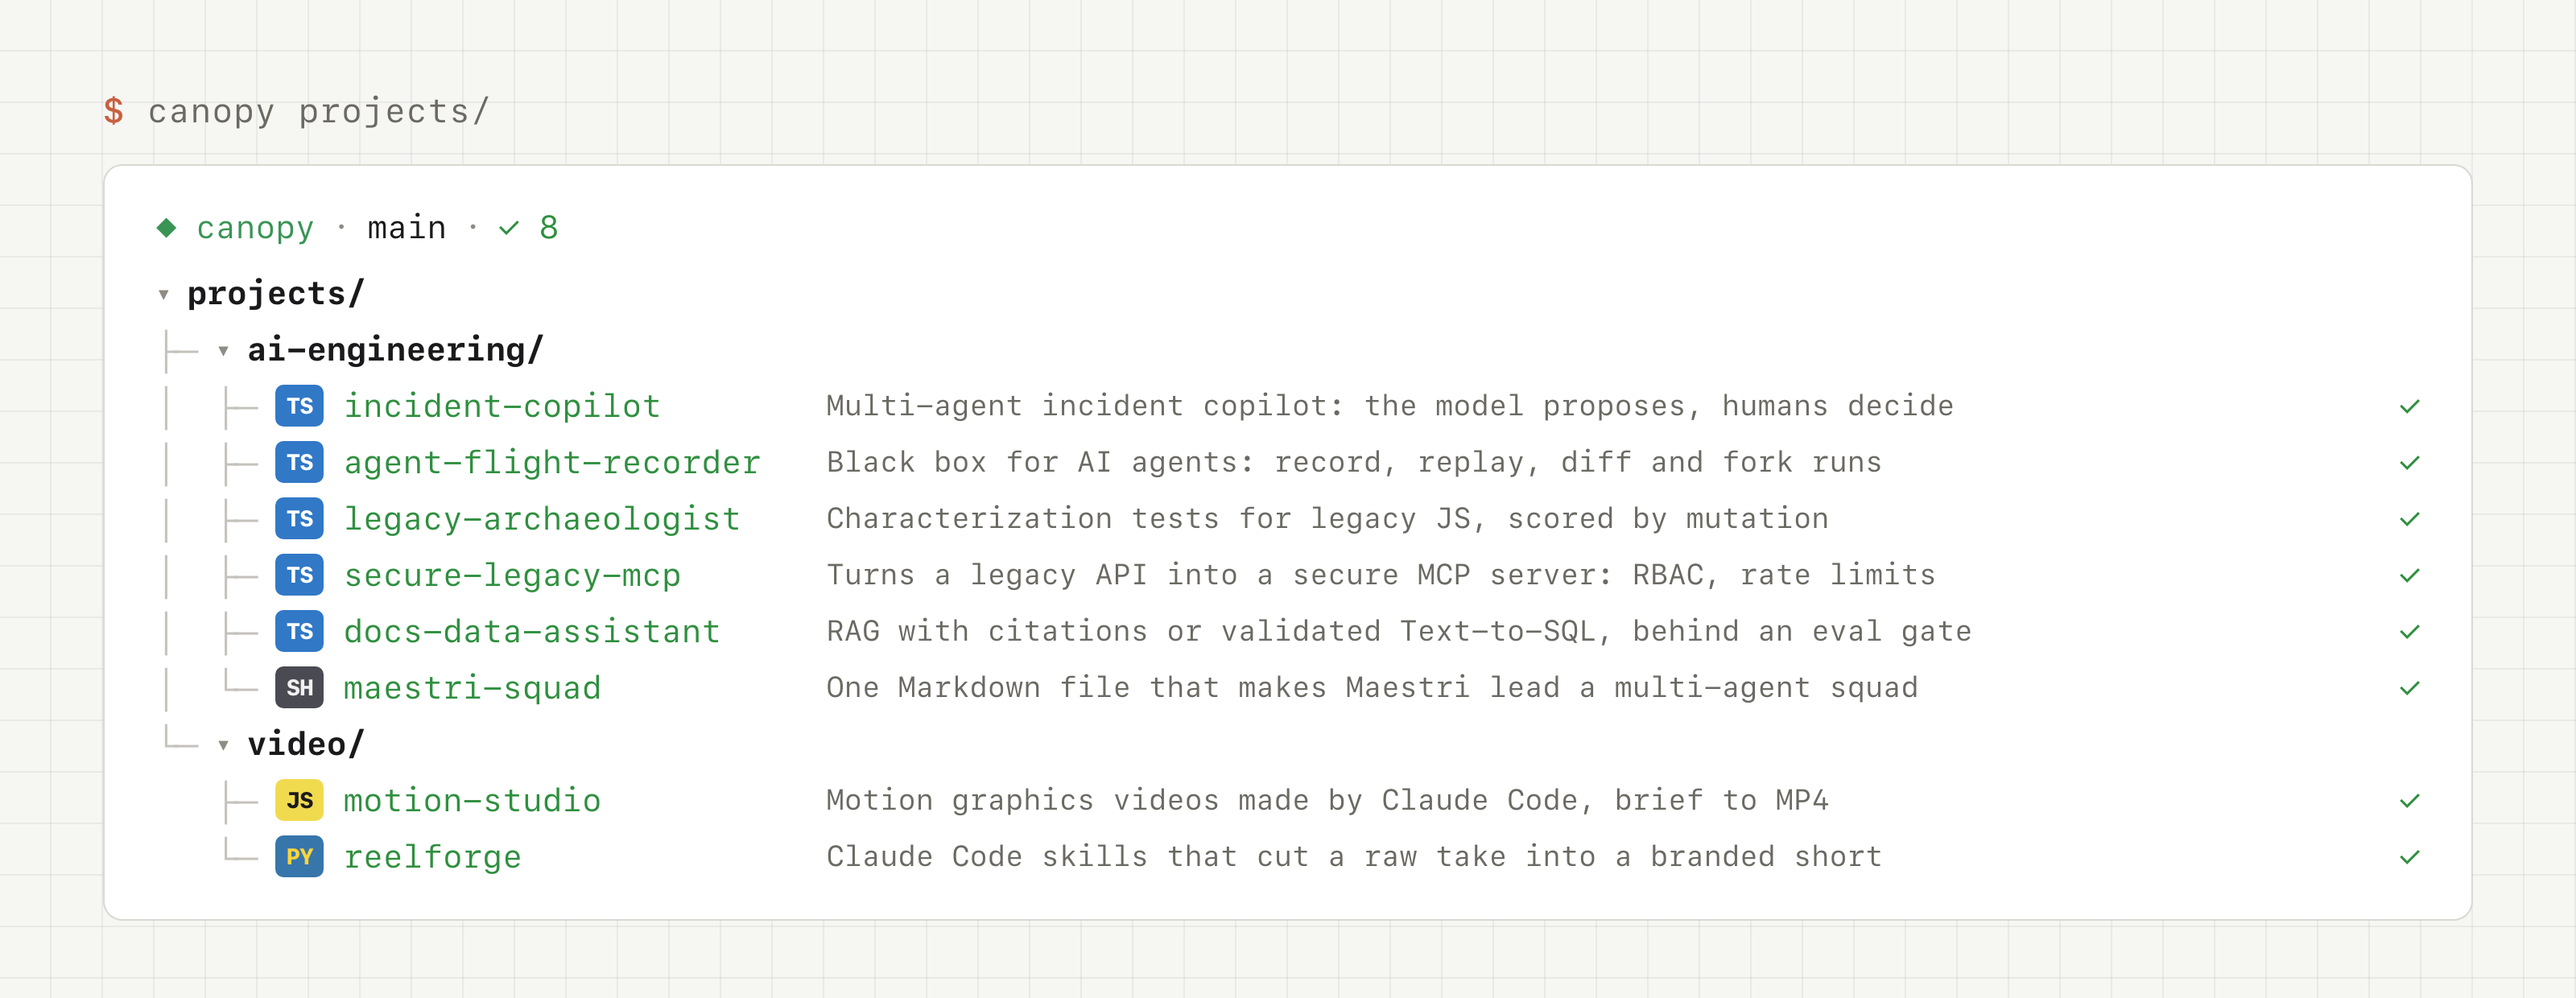
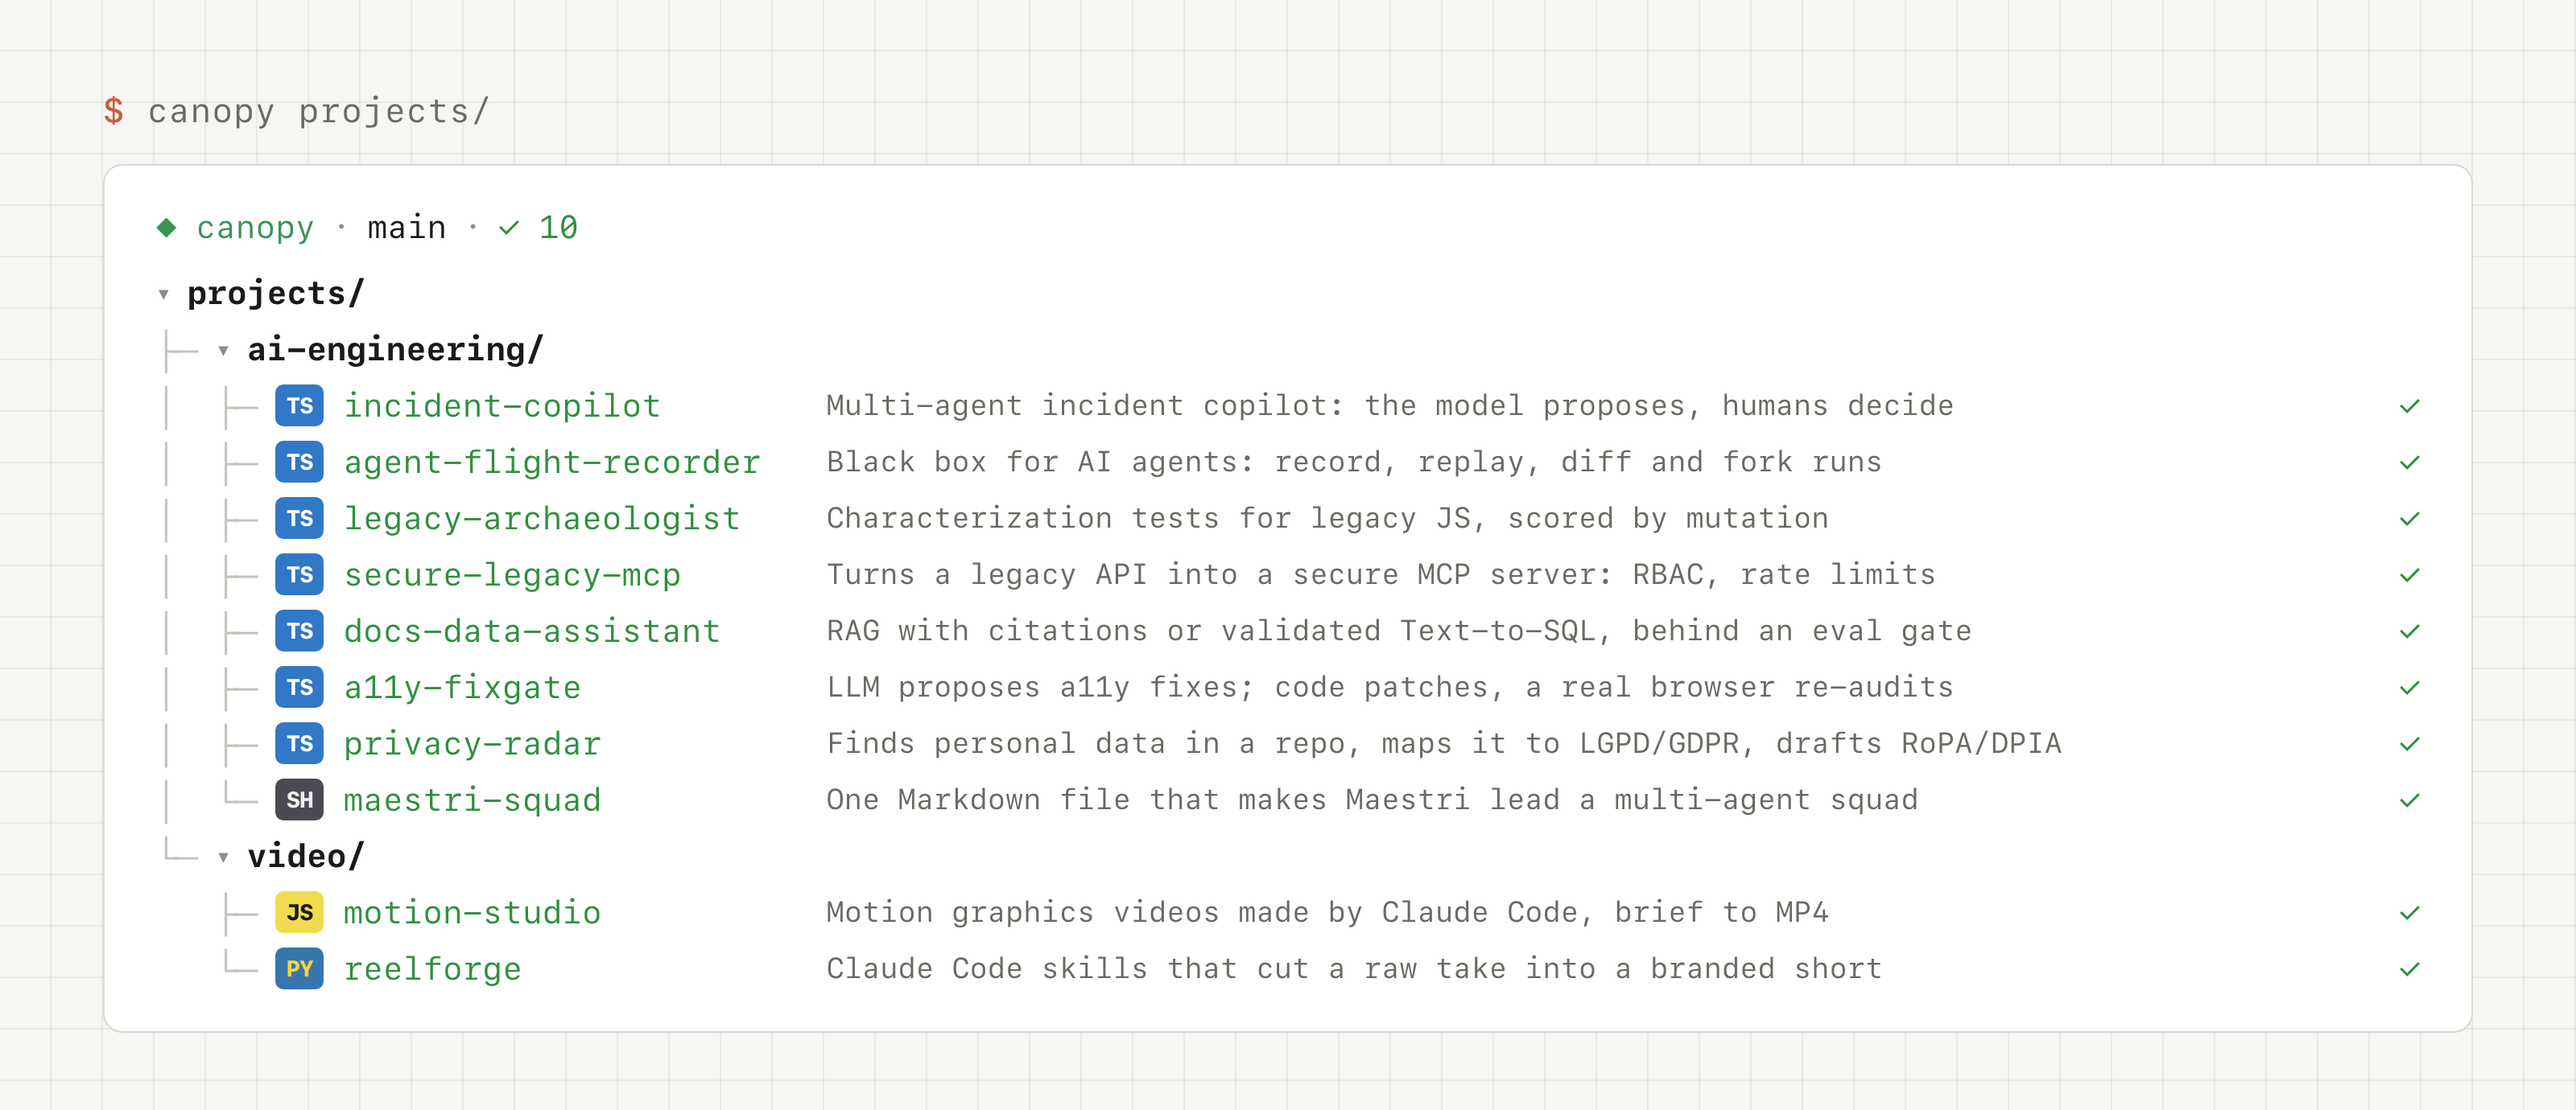
Profile README: indexable text under every section, add a11y-fixgate and privacy-radar

diff --git a/assets/v2/src/badges.html b/assets/v2/src/badges.html
@@ -24,6 +24,8 @@
 <span class="badge" id="repo-legacy-archaeologist"><span class="tile" style="background:#3178C6;color:#fff">TS</span><b>legacy-archaeologist</b></span><br><br>
 <span class="badge" id="repo-secure-legacy-mcp"><span class="tile" style="background:#3178C6;color:#fff">TS</span><b>secure-legacy-mcp</b></span><br><br>
 <span class="badge" id="repo-docs-data-assistant"><span class="tile" style="background:#3178C6;color:#fff">TS</span><b>docs-data-assistant</b></span><br><br>
+<span class="badge" id="repo-a11y-fixgate"><span class="tile" style="background:#3178C6;color:#fff">TS</span><b>a11y-fixgate</b></span><br><br>
+<span class="badge" id="repo-privacy-radar"><span class="tile" style="background:#3178C6;color:#fff">TS</span><b>privacy-radar</b></span><br><br>
 <span class="badge" id="repo-maestri-squad"><span class="tile" style="background:var(--sh2-bg);color:var(--sh2-fg)">SH</span><b>maestri-squad</b></span><br><br>
 <span class="badge" id="repo-motion-studio"><span class="tile" style="background:#E9C846;color:#1a1a1a">JS</span><b>motion-studio</b></span><br><br>
 <span class="badge" id="repo-reelforge"><span class="tile" style="background:#3572A5;color:#FFD43B">PY</span><b>reelforge</b></span><br><br>

diff --git a/assets/v2/src/section-projects.html b/assets/v2/src/section-projects.html
@@ -32,6 +32,8 @@
       ['TS','legacy-archaeologist','Characterization tests for legacy JS, scored by mutation'],
       ['TS','secure-legacy-mcp','Turns a legacy API into a secure MCP server: RBAC, rate limits'],
       ['TS','docs-data-assistant','RAG with citations or validated Text-to-SQL, behind an eval gate'],
+      ['TS','a11y-fixgate','LLM proposes a11y fixes; code patches, a real browser re-audits'],
+      ['TS','privacy-radar','Finds personal data in a repo, maps it to LGPD/GDPR, drafts RoPA/DPIA'],
       ['SH','maestri-squad','One Markdown file that makes Maestri lead a multi-agent squad'],
     ]],
     ['video', [

diff --git a/README.md b/README.md
@@ -12,11 +12,19 @@
 
 <picture><source media="(prefers-color-scheme: light)" srcset="assets/v2/section-about-light.png"><img src="assets/v2/section-about.png" alt="about: Senior Full-Stack & AI Engineer, 9+ years building web and mobile products for companies in the US and Brazil. At TED Conferences: the front end of TED.com (20M+ monthly visitors) and the TED app in React Native (30M+ downloads on Android alone). AI engineering: agents that know when not to act, MCP servers you can trust, RAG with eval gates in CI, Claude Code mods and skills. Video with code: Claude Code skills that edit talking-head takes and produce motion graphics. Remote from Braga, Portugal; EU/US overlap; Portuguese (native), English (C1); B.Sc. Information Systems (UFSC); open to freelance projects." width="100%"></picture>
 
+**Senior Full-Stack & AI Engineer**, 9+ years building web and mobile products for companies in the US and Brazil. At [TED Conferences](https://www.ted.com): the front end of TED.com (20M+ monthly visitors) and the TED app in React Native (30M+ downloads on Android alone). AI engineering: agents that know when not to act, MCP servers you can trust, RAG with eval gates in CI, Claude Code mods and skills. Video with code: Claude Code skills that edit talking-head takes and produce motion graphics. Remote from Portugal, EU/US overlap. Portuguese (native), English (C1). B.Sc. Information Systems (UFSC). Open to freelance projects.
+
+
 <br>
 
 <a href="https://github.com/flaviorg/claude-mods"><picture><source media="(prefers-color-scheme: light)" srcset="assets/v2/section-mods-light.png"><img src="assets/v2/section-mods.png" alt="ls mods: tripwire holds rm -rf, force push and hard reset and shows what they would destroy first; canopy is your file tree beside the chat, lit by what Claude reads, edits and commits; crew is a live panel of every subagent Claude delegates to, with a pixel mascot each. /plugin marketplace add flaviorg/claude-mods" width="100%"></picture></a>
 
 <p align="center"><a href="https://github.com/flaviorg/tripwire"><picture><source media="(prefers-color-scheme: light)" srcset="assets/v2/badge-repo-tripwire-light.png"><img src="assets/v2/badge-repo-tripwire.png" height="36" alt="tripwire"></picture></a>&nbsp;<a href="https://github.com/flaviorg/canopy"><picture><source media="(prefers-color-scheme: light)" srcset="assets/v2/badge-repo-canopy-light.png"><img src="assets/v2/badge-repo-canopy.png" height="36" alt="canopy"></picture></a>&nbsp;<a href="https://github.com/flaviorg/crew"><picture><source media="(prefers-color-scheme: light)" srcset="assets/v2/badge-repo-crew-light.png"><img src="assets/v2/badge-repo-crew.png" height="36" alt="crew"></picture></a>&nbsp;<a href="https://github.com/flaviorg/claude-mods"><picture><source media="(prefers-color-scheme: light)" srcset="assets/v2/badge-repo-claude-mods-light.png"><img src="assets/v2/badge-repo-claude-mods.png" height="36" alt="claude-mods"></picture></a></p>
+
+- **[tripwire](https://github.com/flaviorg/tripwire)**: holds `rm -rf`, force push, hard reset and `DROP TABLE` and shows what they would destroy before they run. Cancel is the default.
+- **[canopy](https://github.com/flaviorg/canopy)**: your project's file tree beside the chat. Every file Claude reads, edits or commits keeps its state in its own color.
+- **[crew](https://github.com/flaviorg/crew)**: a live panel of the subagents Claude delegates to: model, context, tokens, cost and time, each with its own pixel mascot.
+- **[claude-mods](https://github.com/flaviorg/claude-mods)**: the family marketplace. `/plugin marketplace add flaviorg/claude-mods`, then install any of them.
 
 <a href="https://github.com/flaviorg/crew"><img src="https://raw.githubusercontent.com/flaviorg/crew/main/docs/media/crew-session.gif" alt="crew in a real Claude Code session: three subagents run side by side, each with its mascot, model, tokens, cost and time" width="100%"></a>
 
@@ -24,14 +32,35 @@
 
 <br>
 
-<picture><source media="(prefers-color-scheme: light)" srcset="assets/v2/section-projects-light.png"><img src="assets/v2/section-projects.png" alt="canopy projects: ai-engineering/ incident-copilot, agent-flight-recorder, legacy-archaeologist, secure-legacy-mcp, docs-data-assistant, maestri-squad; video/ motion-studio, reelforge" width="100%"></picture>
+<picture><source media="(prefers-color-scheme: light)" srcset="assets/v2/section-projects-light.png"><img src="assets/v2/section-projects.png" alt="canopy projects: ai-engineering/ incident-copilot, agent-flight-recorder, legacy-archaeologist, secure-legacy-mcp, docs-data-assistant, a11y-fixgate, privacy-radar, maestri-squad; video/ motion-studio, reelforge" width="100%"></picture>
 
-<p align="center"><a href="https://github.com/flaviorg/incident-copilot"><picture><source media="(prefers-color-scheme: light)" srcset="assets/v2/badge-repo-incident-copilot-light.png"><img src="assets/v2/badge-repo-incident-copilot.png" height="36" alt="incident-copilot"></picture></a>&nbsp;<a href="https://github.com/flaviorg/agent-flight-recorder"><picture><source media="(prefers-color-scheme: light)" srcset="assets/v2/badge-repo-agent-flight-recorder-light.png"><img src="assets/v2/badge-repo-agent-flight-recorder.png" height="36" alt="agent-flight-recorder"></picture></a>&nbsp;<a href="https://github.com/flaviorg/legacy-archaeologist"><picture><source media="(prefers-color-scheme: light)" srcset="assets/v2/badge-repo-legacy-archaeologist-light.png"><img src="assets/v2/badge-repo-legacy-archaeologist.png" height="36" alt="legacy-archaeologist"></picture></a>&nbsp;<a href="https://github.com/flaviorg/secure-legacy-mcp"><picture><source media="(prefers-color-scheme: light)" srcset="assets/v2/badge-repo-secure-legacy-mcp-light.png"><img src="assets/v2/badge-repo-secure-legacy-mcp.png" height="36" alt="secure-legacy-mcp"></picture></a>&nbsp;<a href="https://github.com/flaviorg/docs-data-assistant"><picture><source media="(prefers-color-scheme: light)" srcset="assets/v2/badge-repo-docs-data-assistant-light.png"><img src="assets/v2/badge-repo-docs-data-assistant.png" height="36" alt="docs-data-assistant"></picture></a>&nbsp;<a href="https://github.com/flaviorg/maestri-squad"><picture><source media="(prefers-color-scheme: light)" srcset="assets/v2/badge-repo-maestri-squad-light.png"><img src="assets/v2/badge-repo-maestri-squad.png" height="36" alt="maestri-squad"></picture></a>&nbsp;<a href="https://github.com/flaviorg/motion-studio"><picture><source media="(prefers-color-scheme: light)" srcset="assets/v2/badge-repo-motion-studio-light.png"><img src="assets/v2/badge-repo-motion-studio.png" height="36" alt="motion-studio"></picture></a>&nbsp;<a href="https://github.com/flaviorg/reelforge"><picture><source media="(prefers-color-scheme: light)" srcset="assets/v2/badge-repo-reelforge-light.png"><img src="assets/v2/badge-repo-reelforge.png" height="36" alt="reelforge"></picture></a></p>
+<p align="center"><a href="https://github.com/flaviorg/incident-copilot"><picture><source media="(prefers-color-scheme: light)" srcset="assets/v2/badge-repo-incident-copilot-light.png"><img src="assets/v2/badge-repo-incident-copilot.png" height="36" alt="incident-copilot"></picture></a>&nbsp;<a href="https://github.com/flaviorg/agent-flight-recorder"><picture><source media="(prefers-color-scheme: light)" srcset="assets/v2/badge-repo-agent-flight-recorder-light.png"><img src="assets/v2/badge-repo-agent-flight-recorder.png" height="36" alt="agent-flight-recorder"></picture></a>&nbsp;<a href="https://github.com/flaviorg/legacy-archaeologist"><picture><source media="(prefers-color-scheme: light)" srcset="assets/v2/badge-repo-legacy-archaeologist-light.png"><img src="assets/v2/badge-repo-legacy-archaeologist.png" height="36" alt="legacy-archaeologist"></picture></a>&nbsp;<a href="https://github.com/flaviorg/secure-legacy-mcp"><picture><source media="(prefers-color-scheme: light)" srcset="assets/v2/badge-repo-secure-legacy-mcp-light.png"><img src="assets/v2/badge-repo-secure-legacy-mcp.png" height="36" alt="secure-legacy-mcp"></picture></a>&nbsp;<a href="https://github.com/flaviorg/docs-data-assistant"><picture><source media="(prefers-color-scheme: light)" srcset="assets/v2/badge-repo-docs-data-assistant-light.png"><img src="assets/v2/badge-repo-docs-data-assistant.png" height="36" alt="docs-data-assistant"></picture></a>&nbsp;<a href="https://github.com/flaviorg/a11y-fixgate"><picture><source media="(prefers-color-scheme: light)" srcset="assets/v2/badge-repo-a11y-fixgate-light.png"><img src="assets/v2/badge-repo-a11y-fixgate.png" height="36" alt="a11y-fixgate"></picture></a>&nbsp;<a href="https://github.com/flaviorg/privacy-radar"><picture><source media="(prefers-color-scheme: light)" srcset="assets/v2/badge-repo-privacy-radar-light.png"><img src="assets/v2/badge-repo-privacy-radar.png" height="36" alt="privacy-radar"></picture></a>&nbsp;<a href="https://github.com/flaviorg/maestri-squad"><picture><source media="(prefers-color-scheme: light)" srcset="assets/v2/badge-repo-maestri-squad-light.png"><img src="assets/v2/badge-repo-maestri-squad.png" height="36" alt="maestri-squad"></picture></a>&nbsp;<a href="https://github.com/flaviorg/motion-studio"><picture><source media="(prefers-color-scheme: light)" srcset="assets/v2/badge-repo-motion-studio-light.png"><img src="assets/v2/badge-repo-motion-studio.png" height="36" alt="motion-studio"></picture></a>&nbsp;<a href="https://github.com/flaviorg/reelforge"><picture><source media="(prefers-color-scheme: light)" srcset="assets/v2/badge-repo-reelforge-light.png"><img src="assets/v2/badge-repo-reelforge.png" height="36" alt="reelforge"></picture></a></p>
+
+**AI engineering.** The pattern in all of them: the model proposes, deterministic code and humans decide.
+- **[incident-copilot](https://github.com/flaviorg/incident-copilot)**: multi-agent incident copilot (LangGraph + TypeScript) with an approval gate, MCP and a War Room.
+- **[agent-flight-recorder](https://github.com/flaviorg/agent-flight-recorder)**: the black box for AI agents. Record every LLM, tool, clock and random step; replay offline, diff two runs, fork at step N, turn a failed run into a regression test.
+- **[legacy-archaeologist](https://github.com/flaviorg/legacy-archaeologist)**: characterization tests and a living spec for legacy JavaScript. The real code writes every expected value; a mutation score says whether the tests catch changes.
+- **[secure-legacy-mcp](https://github.com/flaviorg/secure-legacy-mcp)**: turns a legacy API into a secure MCP server. Hashed service tokens, RBAC, rate limits, clean stdout, `npx` package.
+- **[docs-data-assistant](https://github.com/flaviorg/docs-data-assistant)**: RAG with refusal and citations, or validated Text-to-SQL, with injection guardrails and an eval gate in CI.
+- **[a11y-fixgate](https://github.com/flaviorg/a11y-fixgate)**: LLM-assisted accessibility fixer. The model only proposes values; code builds bounded patches and a real-browser axe re-audit decides.
+- **[privacy-radar](https://github.com/flaviorg/privacy-radar)**: scans a Node/TypeScript repo for personal data, maps each finding to LGPD and GDPR articles and drafts RoPA/DPIA documents.
+- **[maestri-squad](https://github.com/flaviorg/maestri-squad)**: one Markdown file that turns a Maestri Maestro into the lead of a multi-agent software squad.
+
+**Video with code.**
+- **[motion-studio](https://github.com/flaviorg/motion-studio)**: motion graphics videos made by Claude Code. Brief, real brand capture, beat grid, sound in code, scored critique loop, MP4.
+- **[reelforge](https://github.com/flaviorg/reelforge)**: Claude Code skills that turn a raw talking-head take into a tight, branded short-form video.
+
 
 <br>
 
 <picture><source media="(prefers-color-scheme: light)" srcset="assets/v2/section-stack-light.png"><img src="assets/v2/section-stack.png" alt="stack: TypeScript, JavaScript, React, Next.js, Tailwind CSS, HTML, CSS, Figma · React Native, Expo, iOS, Android · Node.js, NestJS, Fastify, Express, GraphQL, REST, Prismic, Algolia · PostgreSQL, MySQL, Oracle, MongoDB, Firebase, Prisma, TypeORM · Jest, Playwright, New Relic, Bugsnag, Embrace · AWS, Docker, Git, GitHub Actions · Python, MCP, LangChain, LangGraph · Claude Code, Codex, Cursor, Antigravity" width="100%"></picture>
 
+**Stack.** TypeScript, JavaScript, React, Next.js, Tailwind CSS, Figma · React Native, Expo, iOS, Android · Node.js, NestJS, Fastify, Express, GraphQL, REST, Prismic, Algolia · PostgreSQL, MySQL, Oracle, MongoDB, Firebase, Prisma, TypeORM · Jest, Playwright, New Relic, Bugsnag, Embrace · AWS, Docker, GitHub Actions · Python, MCP, LangChain, LangGraph · Claude Code, Codex, Cursor, Antigravity.
+
+
 <a href="https://oflavio.dev"><picture><source media="(prefers-color-scheme: light)" srcset="assets/v2/section-contact-light.png"><img src="assets/v2/section-contact.png" alt="contact: oflavio.dev · linkedin.com/in/flaviorgdev · flaviorgouveia@gmail.com · open to freelance projects" width="100%"></picture></a>
+
+**Contact.** [oflavio.dev](https://oflavio.dev) · [LinkedIn](https://www.linkedin.com/in/flaviorgdev) · [Instagram](https://www.instagram.com/oflavio.dev) · [flaviorgouveia@gmail.com](mailto:flaviorgouveia@gmail.com) · open to freelance projects.
+
 
 <p align="center"><sub>Every image on this page was drawn by code, in the style of my Claude Code mods. The mascots are crew's own.</sub></p>
